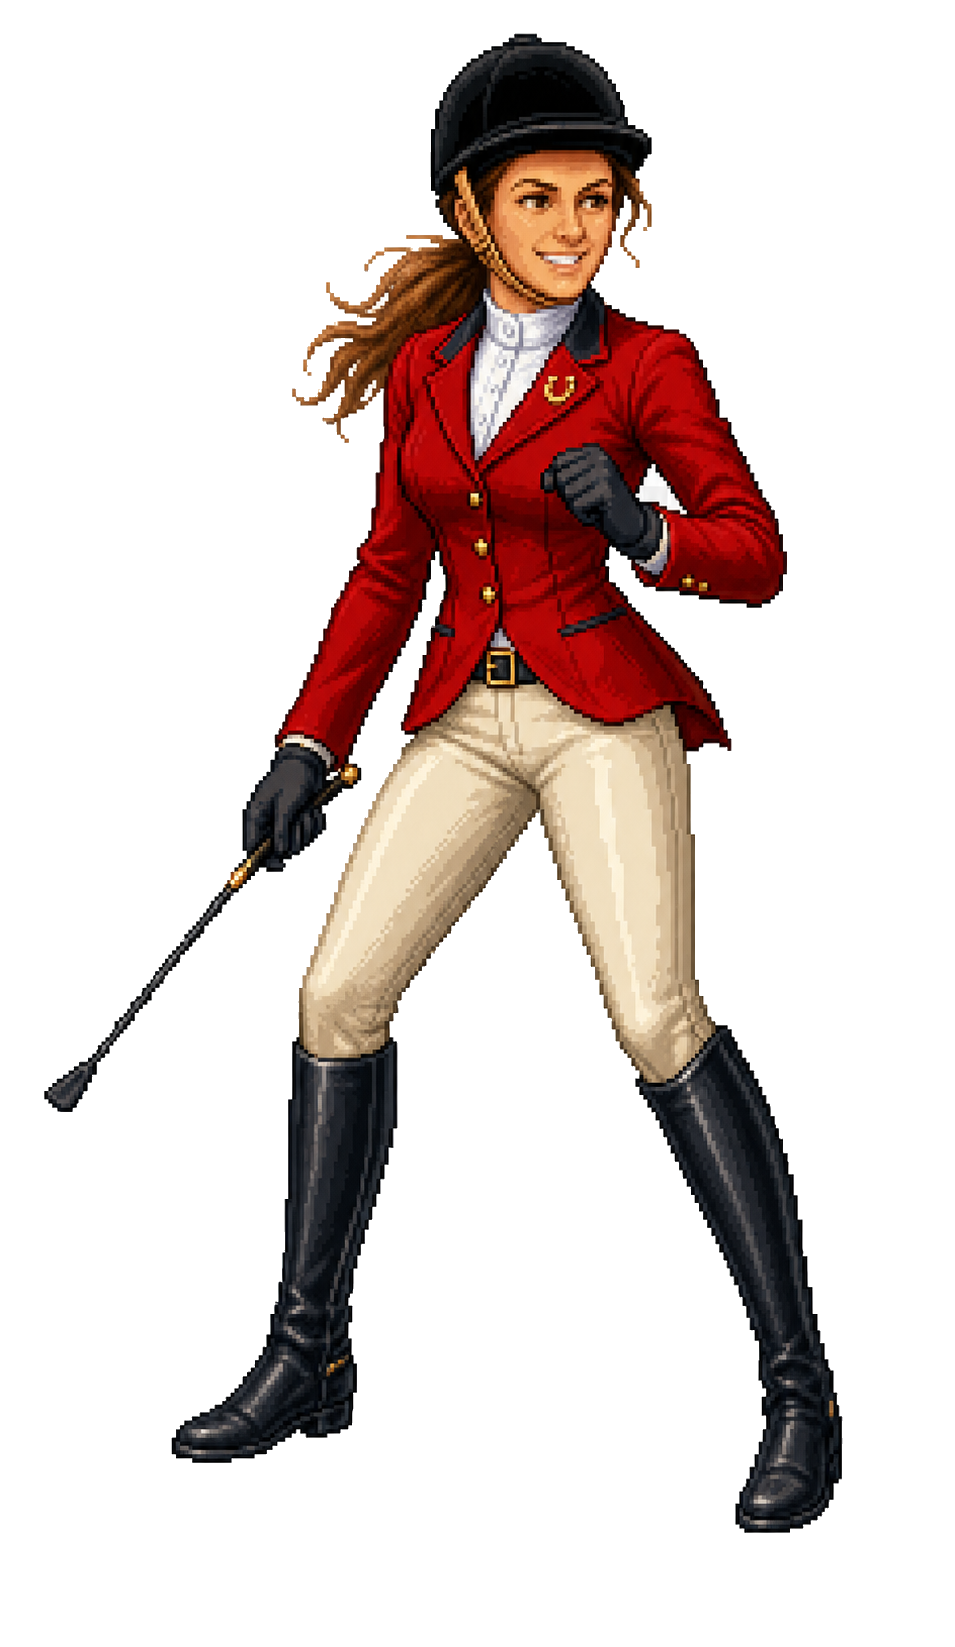
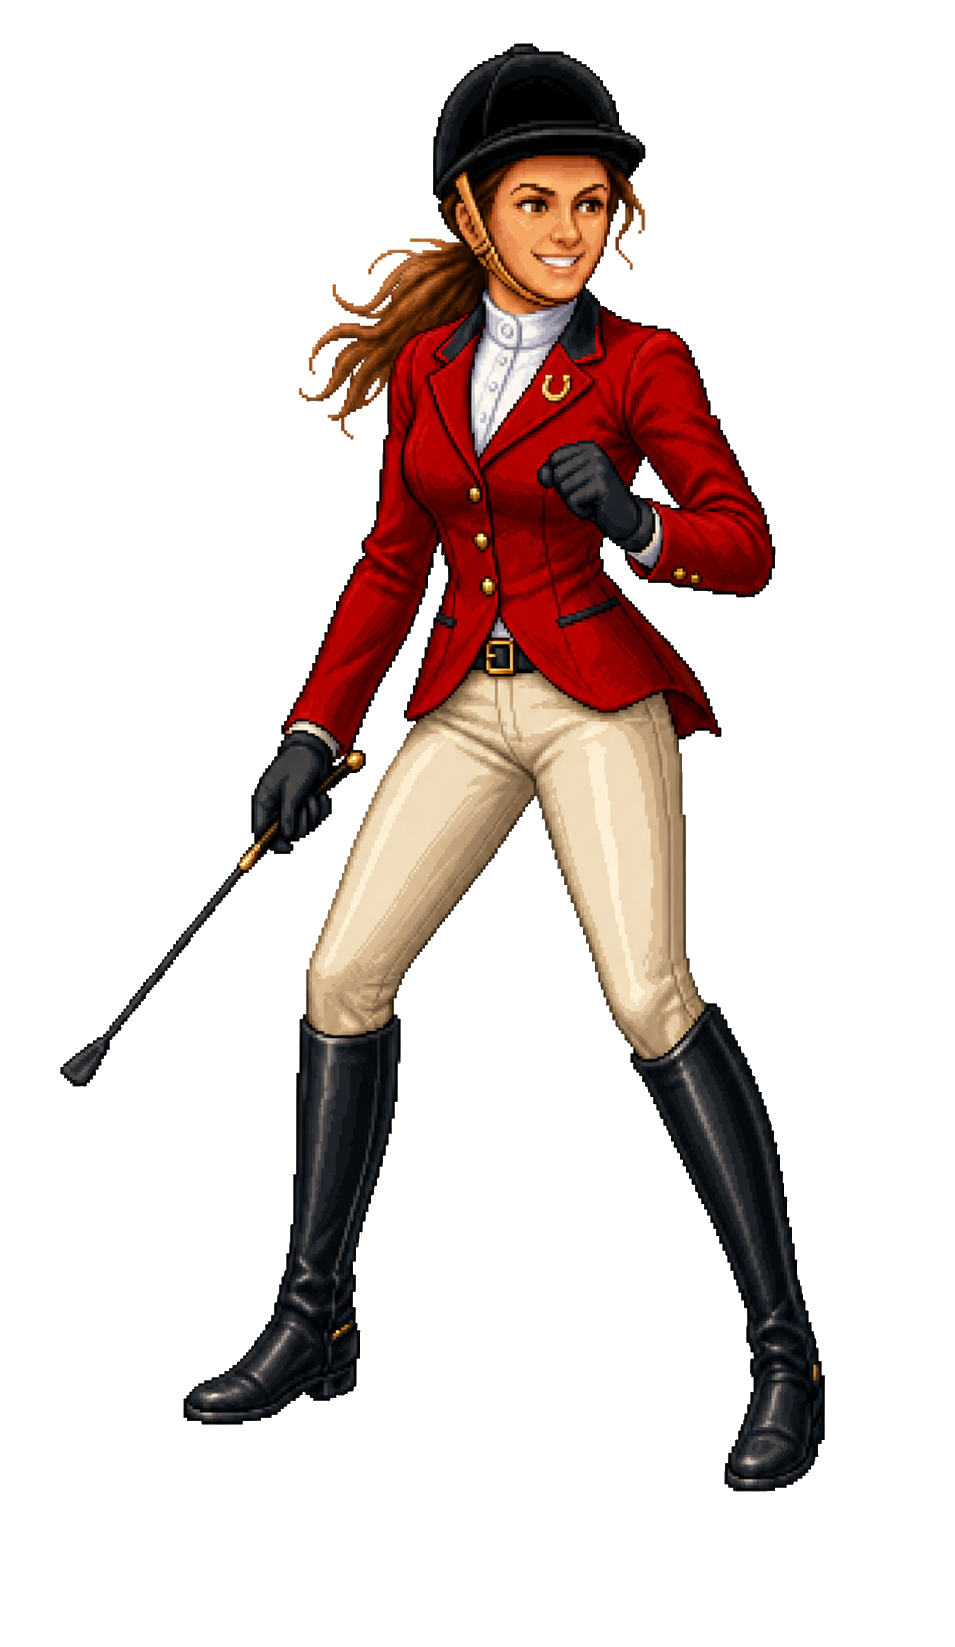
Corrige le détourage de Yannick et Charlotte

Changed region(s): [[0.1822, 0.0, 0.8806, 0.929], [0.0304, 0.5574, 0.2126, 0.6812]]

diff --git a/game.js b/game.js
@@ -4,7 +4,7 @@ const icons={
   green:`<svg class="med-icon" viewBox="0 0 48 48" aria-label="Bistouri"><path d="M7 41l3 2 19-21-3-4z"/><path d="M26 18L39 2v5c-1 6-5 12-10 15z" fill="white"/><path d="M10 39l17-19"/></svg>`,
   blue:`<svg class="med-icon" viewBox="0 0 48 48" aria-label="Seringue"><path d="M14 29l15-15 7 7-15 15z"/><path d="M33 18L44 7M10 25l5 5M20 35l5 5M17 33L9 41M5 37l8 8"/><path d="M19 29l4 4M22 26l4 4M25 23l4 4"/></svg>`
 };
-const CHARACTERS=[['Pascal','pascal-pirate.png'],['Mathieu','mathieu-luchador.png'],['Pierre','pierre-halloween.png'],['Adela','adela-egyptienne.png'],['JB','jb-cosmonaute.png?v=20260819-2'],['Romain','romain-poulet.png'],['Natacha','natacha-princesse.png'],['Fanny','fanny-exploratrice.png'],['Félix','felix-cyborg.png'],['Youri','youri-paladin.png?v=20260819-2'],['Quentin','quentin-dictateur.png'],['Nicolas','nicolas-vigilante.png'],['Yannick','yannick-cardinal.png'],['Cecilia','cecilia-infirmiere.png'],['Thibault','thibault-aventurier.png'],['Polo','polo-dandy.png'],['Édouard','edouard-aviateur.png'],['Justin','justin-judoka.png'],['Charlotte','charlotte-cavaliere.png'],["Catoire d’Arabie",'catoire-arabie.png'],['Rémy','remy-shaolin.png'],['Olivier','olivier-policier.png?v=20260819-2'],['Raphaël','raphael-scaphandrier.png?v=20260819-2'],['Éric','eric-druide.png'],['Cyril','cyril-alchimiste.png'],['Rémi','remi-berserker.png'],['Thomas','thomas-capitaine-sous-marin.png'],['Benjamin','benjamin-sherif.png'],['Edwin','edwin-zadiste.png'],['Alexandre','alexandre-hercule-satan.png'],['Erwan','erwan-bucheron.png']];
+const CHARACTERS=[['Pascal','pascal-pirate.png'],['Mathieu','mathieu-luchador.png'],['Pierre','pierre-halloween.png'],['Adela','adela-egyptienne.png'],['JB','jb-cosmonaute.png?v=20260819-2'],['Romain','romain-poulet.png'],['Natacha','natacha-princesse.png'],['Fanny','fanny-exploratrice.png'],['Félix','felix-cyborg.png'],['Youri','youri-paladin.png?v=20260819-2'],['Quentin','quentin-dictateur.png'],['Nicolas','nicolas-vigilante.png'],['Yannick','yannick-cardinal.png?v=20260819-2'],['Cecilia','cecilia-infirmiere.png'],['Thibault','thibault-aventurier.png'],['Polo','polo-dandy.png'],['Édouard','edouard-aviateur.png'],['Justin','justin-judoka.png'],['Charlotte','charlotte-cavaliere.png?v=20260819-2'],["Catoire d’Arabie",'catoire-arabie.png'],['Rémy','remy-shaolin.png'],['Olivier','olivier-policier.png?v=20260819-2'],['Raphaël','raphael-scaphandrier.png?v=20260819-2'],['Éric','eric-druide.png'],['Cyril','cyril-alchimiste.png'],['Rémi','remi-berserker.png'],['Thomas','thomas-capitaine-sous-marin.png'],['Benjamin','benjamin-sherif.png'],['Edwin','edwin-zadiste.png'],['Alexandre','alexandre-hercule-satan.png'],['Erwan','erwan-bucheron.png']];
 const $=id=>document.getElementById(id);let socket,state,session=JSON.parse(localStorage.getItem('duel-session')||'null'),lastChatCount=0,reconnectTimer=null,connectionNumber=0;
 const invitedCode=new URLSearchParams(location.search).get('join')?.trim().toUpperCase().replace(/[^A-Z2-9]/g,'').slice(0,5)||'';
 // Un joueur qui actualise son lien d'invitation doit conserver son identité.
@@ -42,7 +42,7 @@ function showGallery(){
 }
 function returnHome(){localStorage.removeItem('duel-session');session=null;state=null;const url=new URL(location.href);url.search='';url.hash='';location.href=url.toString()}
 function render(){$('lobby').classList.toggle('hidden',!!state);$('waitingRoom').classList.toggle('hidden',!state||state.status!=='lobby');$('game').classList.toggle('hidden',!state||state.status==='lobby');$('chatPanel').classList.toggle('hidden',!state);$('leaveButton').classList.toggle('hidden',!state);$('spectatorModeNotice').classList.toggle('hidden',!state||state.viewerRole!=='spectator'||state.status==='lobby');renderChat();if(state.status==='lobby')return renderWaiting();renderGame()}
-function renderWaiting(){$('copyCode').textContent=state.code;$('whatsappInviteLink').href=`https://wa.me/?text=${encodeURIComponent(invitationText())}`;const spectators=state.spectators.map(s=>`<div class="waiting-player spectator"><span class="spectator-icon">👁</span><span><b>${esc(s.name)}</b><small>ORGANISATEUR / SPECTATEUR${s.id===state.hostId?' · HÔTE':''}</small></span><i class="${s.connected?'online':''}"></i></div>`).join('');$('waitingPlayers').innerHTML=spectators+state.players.map(p=>`<div class="waiting-player"><img src="assets/characters/${characterFile(p.character)}" alt=""><span><b>${esc(p.name)}</b><small>${esc(p.character)}${p.id===state.hostId?' · HÔTE':''}</small></span><i class="${p.connected?'online':''}"></i></div>`).join('');const host=state.viewerId===state.hostId;$('onlineStartButton').classList.toggle('hidden',!host);$('waitingHint').textContent=host?(state.players.length<2?'En attente d’au moins deux joueurs actifs…':`${state.players.length} joueurs prêts. Vous pouvez lancer la partie.`):"L’hôte lancera la partie lorsque tout le monde sera prêt."}
+function renderWaiting(){$('copyCode').textContent=state.code;const spectators=state.spectators.map(s=>`<div class="waiting-player spectator"><span class="spectator-icon">👁</span><span><b>${esc(s.name)}</b><small>ORGANISATEUR / SPECTATEUR${s.id===state.hostId?' · HÔTE':''}</small></span><i class="${s.connected?'online':''}"></i></div>`).join('');$('waitingPlayers').innerHTML=spectators+state.players.map(p=>`<div class="waiting-player"><img src="assets/characters/${characterFile(p.character)}" alt=""><span><b>${esc(p.name)}</b><small>${esc(p.character)}${p.id===state.hostId?' · HÔTE':''}</small></span><i class="${p.connected?'online':''}"></i></div>`).join('');const host=state.viewerId===state.hostId;$('onlineStartButton').classList.toggle('hidden',!host);$('waitingHint').textContent=host?(state.players.length<2?'En attente d’au moins deux joueurs actifs…':`${state.players.length} joueurs prêts. Vous pouvez lancer la partie.`):"L’hôte lancera la partie lorsque tout le monde sera prêt."}
 function renderChat(){if(!state)return;const box=$('chatMessages'),atBottom=box.scrollHeight-box.scrollTop-box.clientHeight<40;box.innerHTML=state.chat.map(m=>`<div class="chat-message ${m.role==='spectator'?'spectator':''}"><b>${esc(m.sender)}</b><span>${esc(m.text)}</span></div>`).join('')||'<p class="chat-empty">Le chat est ouvert. Soyez le premier à parler.</p>';if(atBottom)box.scrollTop=box.scrollHeight;if(state.chat.length>lastChatCount&&$('chatPanel').classList.contains('collapsed'))$('chatBadge').textContent=String(state.chat.length-lastChatCount);lastChatCount=state.chat.length}
 function legalIds(){const me=state.players.find(p=>p.id===state.viewerId);if(!me||state.phase!=='play'||state.players[state.turn]?.id!==state.viewerId)return new Set();if(!state.leadColor)return new Set(me.dice.map(d=>d.id));const matching=me.dice.filter(d=>d.color===state.leadColor);return new Set((matching.length?[...matching,...me.dice.filter(d=>special(d.color))]:me.dice).map(d=>d.id))}
 function renderGame(){const legal=legalIds();$('roundValue').textContent=`${state.round} / ${state.totalRounds}`;$('trickValue').textContent=`${state.trick} / ${state.round}`;$('leadColor').textContent=state.leadColor?COLORS[state.leadColor].toUpperCase():'—';$('phaseValue').textContent={bids:'PARIS',play:'LANCER',result:'RÉSULTAT',over:'TERMINÉ'}[state.phase]||state.phase;$('game').dataset.phase=state.phase;$('playersGrid').dataset.count=state.players.length;
@@ -64,7 +64,7 @@ function init(){
   const options=CHARACTERS.map(([name],i)=>`<option value="${i}">${name}</option>`).join('');$('characterSelect').innerHTML=options;
   if(invitedCode){$('roomCodeInput').value=invitedCode;$('invitedRoomCode').textContent=invitedCode;$('inviteNotice').classList.remove('hidden');$('joinButton').textContent='REJOINDRE LA PARTIE';$('lobby').classList.add('invited-lobby')}
   $('createButton').onclick=createRoom;$('organizerButton').onclick=createOrganizer;$('joinButton').onclick=joinRoom;$('joinSpectatorButton').onclick=joinSpectatorRoom;$('roomCodeInput').oninput=e=>e.target.value=e.target.value.toUpperCase().replace(/[^A-Z2-9]/g,'');$('roomCodeInput').onkeydown=e=>{if(e.key==='Enter')joinRoom()};
-  $('onlineStartButton').onclick=()=>send('start');$('nextButton').onclick=()=>send('next');$('resetButton').onclick=()=>send('reset');$('newRoomButton').onclick=()=>send('newRoom');$('leaveButton').onclick=()=>{if(confirm('Quitter cette partie et revenir à l’accueil ?'))send('leave')};$('cancelWaitingButton').onclick=()=>send('leave');$('shareInviteButton').onclick=shareInvitation;$('copyInviteButton').onclick=copyInvitation;$('copyCode').onclick=async()=>{await navigator.clipboard.writeText(state.code);$('copyCode').textContent='COPIÉ !';setTimeout(()=>$('copyCode').textContent=state.code,1000)};
+  $('onlineStartButton').onclick=()=>send('start');$('nextButton').onclick=()=>send('next');$('resetButton').onclick=()=>send('reset');$('newRoomButton').onclick=()=>send('newRoom');$('leaveButton').onclick=()=>{if(confirm('Quitter cette partie et revenir à l’accueil ?'))send('leave')};$('cancelWaitingButton').onclick=()=>send('leave');$('shareInviteButton').onclick=shareInvitation;$('directInviteButton').onclick=()=>{location.href=`https://wa.me/?text=${encodeURIComponent(invitationText())}`};$('copyInviteButton').onclick=copyInvitation;$('copyCode').onclick=async()=>{await navigator.clipboard.writeText(state.code);$('copyCode').textContent='COPIÉ !';setTimeout(()=>$('copyCode').textContent=state.code,1000)};
   $('chatHeader').onclick=()=>{$('chatPanel').classList.toggle('collapsed');$('chatBadge').textContent=''};
   $('chatForm').onsubmit=e=>{e.preventDefault();const text=$('chatInput').value.trim();if(text){send('chat',{text});$('chatInput').value=''}};
   $('rulesButton').onclick=()=>$('rulesDialog').showModal();$('closeRules').onclick=()=>$('rulesDialog').close();$('legend').innerHTML=['brown','green','blue'].map(c=>`<div class="legend-item">${dieHTML({color:c,face:'symbol'})}<span>${COLORS[c]}</span></div>`).join('');connect()

diff --git a/multiplayer.css b/multiplayer.css
@@ -3,8 +3,8 @@
 .spectator-join-button{padding:13px;border:1px solid #80cbb9;background:#0d302dcc;color:#c9fff2;box-shadow:0 3px 0 #061816;font-size:10px}.spectator-join-button:hover{background:#1b5149;box-shadow:0 3px 0 #061816,0 0 16px #69e3c344}.spectator-mode-notice{margin-bottom:10px;padding:10px 16px;border:1px solid #75d8c3;background:#123b37;color:#d7fff5;text-align:center;font-size:10px;font-weight:900;letter-spacing:.12em;box-shadow:0 0 16px #54ddbd33}
 .invite-notice{display:grid;gap:5px;padding:14px;border:1px solid #efd276;border-radius:8px;background:#173e35;color:#fff7d8;text-align:center;box-shadow:0 0 22px #f1c75c25}.invite-notice>span{color:#efc866;font-size:8px;font-weight:900;letter-spacing:.18em}.invite-notice strong{font:700 17px/1.25 Georgia,serif}.invite-notice strong b{color:#ffd96e;letter-spacing:.12em}.invite-notice small{color:#bad9d1;font-size:11px}.invited-lobby #roundsLabel,.invited-lobby #createButton,.invited-lobby #organizerButton,.invited-lobby .lobby-choice>span{display:none}.invited-lobby .join-row input{display:none}.invited-lobby .join-row{display:block}.invited-lobby #joinButton{width:100%;padding:17px;border-color:#ffe08c;background:#df663e;color:white;box-shadow:0 5px 0 #6f291d;font-size:12px}
 .connection-status{margin:0;text-align:center;color:#b9dcd2;font-size:12px}.connection-status.error{color:#ff9b7f}.waiting-room{color:#fff;background:linear-gradient(120deg,#071a1def,#112d28ef),url("assets/environments/jungle-temple-arena.png") center/cover}.waiting-room h2{color:#ffe09a}.room-code{padding:8px 14px;border:1px solid #ffe09a;background:#071a1d;color:#ffe09a;font:900 32px/1 monospace;letter-spacing:.16em}.waiting-players{display:grid;gap:8px;margin-bottom:18px}.waiting-player{display:grid;grid-template-columns:48px 1fr 12px;align-items:center;gap:12px;padding:8px;border-bottom:1px solid #ffffff26}.waiting-player img{width:48px;height:58px;object-fit:contain}.waiting-player span{display:grid}.waiting-player small{color:#b5d7cd;font-size:8px}.waiting-player i{width:10px;height:10px;border-radius:50%;background:#7d4038}.waiting-player i.online{background:#7cff9d;box-shadow:0 0 10px #7cff9d}
-.invite-actions{display:grid;grid-template-columns:1fr 1fr;gap:9px;margin-top:18px}.share-invite{grid-column:1/-1;width:100%;padding:16px!important;font-size:12px!important}.whatsapp-invite,.copy-invite{display:grid;place-items:center;min-height:43px;padding:9px;border:1px solid #8bd8a2;border-radius:4px;background:#174f38;color:#eaffef;font-size:9px;font-weight:900;letter-spacing:.05em;text-align:center;text-decoration:none}.copy-invite{border-color:#d6bd77;background:#1b302c;color:#ffe8a5}.code-fallback{margin:14px 0 0!important;color:#a8c7bf!important;font-size:11px}.code-fallback .room-code{margin-left:6px;padding:5px 9px;font-size:18px}
-@media(max-width:620px){.invite-actions{grid-template-columns:1fr}.share-invite{grid-column:auto}.whatsapp-invite,.copy-invite{min-height:48px}.waiting-room{padding:24px 16px!important}.code-fallback{display:flex;align-items:center;justify-content:center}}
+.invite-actions{display:grid;grid-template-columns:1fr 1fr;gap:9px;margin-top:18px}.share-invite{grid-column:1/-1;width:100%;padding:16px!important;font-size:12px!important}.direct-invite,.copy-invite{display:grid;place-items:center;min-height:43px;padding:9px;border:1px solid #8bd8a2;border-radius:4px;background:#174f38;color:#eaffef;font-size:9px;font-weight:900;letter-spacing:.05em;text-align:center;text-decoration:none}.direct-invite{box-shadow:inset 0 0 14px #6aff9a18}.direct-invite:hover{background:#216c4d}.copy-invite{border-color:#d6bd77;background:#1b302c;color:#ffe8a5}.code-fallback{margin:14px 0 0!important;color:#a8c7bf!important;font-size:11px}.code-fallback .room-code{margin-left:6px;padding:5px 9px;font-size:18px}
+@media(max-width:620px){.invite-actions{grid-template-columns:1fr}.share-invite{grid-column:auto}.direct-invite,.copy-invite{min-height:50px;font-size:10px}.direct-invite{order:-1;background:#176b42;border-color:#74e09a}.waiting-room{padding:24px 16px!important}.code-fallback{display:flex;align-items:center;justify-content:center}}
 .arena.multiplayer-arena{display:grid!important;grid-template-columns:minmax(290px,390px) 1fr!important;gap:18px!important;padding-top:34px!important;min-height:760px!important}.multiplayer-arena>.table{grid-column:1;grid-row:1;position:sticky;top:12px;align-self:start;margin-top:0!important;min-height:520px}.players-grid{grid-column:2;grid-row:1;display:grid;grid-template-columns:repeat(2,minmax(220px,1fr));gap:18px;align-content:start}.arena .players-grid article.player-card{position:relative!important;align-self:stretch!important;min-height:330px!important;margin-top:210px!important;padding:16px!important}.players-grid .avatar-zone{top:-215px!important;width:190px!important;height:235px!important}.players-grid .player-card.is-me{border-color:#7fffe2}.players-grid .player-card.is-me:after{content:"VOUS";position:absolute;right:10px;bottom:8px;color:#34685d;font-size:8px;letter-spacing:.15em}.players-grid .dice-rack{min-height:76px}.players-grid .die{width:52px;height:52px}.players-grid .turn-indicator{top:-50px}.disconnected{color:#a84c3d!important;font-size:8px}
 @media(max-width:950px){.arena.multiplayer-arena{grid-template-columns:1fr!important}.multiplayer-arena>.table{position:relative;grid-column:1;grid-row:1}.players-grid{grid-column:1;grid-row:2}.arena .players-grid article.player-card{margin-top:180px!important}}
 @media(max-width:620px){.topbar h1{font-size:28px}.shell{padding:10px}.panel.adventure-lobby{padding:26px 18px}.adventure-lobby h2{font-size:31px}.players-grid{grid-template-columns:1fr}.arena.multiplayer-arena{padding:18px 10px!important}.multiplayer-arena>.table{min-height:430px}.arena .players-grid article.player-card{margin-top:165px!important;min-height:250px!important}.players-grid .avatar-zone{top:-170px!important;height:190px!important;width:160px!important}.status-strip strong{font-size:12px}.die{width:50px;height:50px}.played{gap:8px}}

diff --git a/index.html b/index.html
@@ -13,7 +13,7 @@
   <link rel="manifest" href="/site.webmanifest?v=2">
   <link rel="stylesheet" href="styles.css?v=5">
   <link rel="stylesheet" href="theme.css?v=5">
-  <link rel="stylesheet" href="multiplayer.css?v=8">
+  <link rel="stylesheet" href="multiplayer.css?v=9">
 </head>
 <body>
   <div id="connectionBanner" class="connection-banner hidden">RECONNEXION AU SERVEUR…</div>
@@ -73,7 +73,7 @@
         <p>Invitez vos amis en un geste. Le lien ouvre directement cette salle.</p>
         <div class="invite-actions">
           <button id="shareInviteButton" class="share-invite primary">PARTAGER L’INVITATION</button>
-          <a id="whatsappInviteLink" class="whatsapp-invite" href="#" target="_blank" rel="noopener">ENVOYER SUR WHATSAPP</a>
+          <button id="directInviteButton" class="direct-invite" type="button">INVITER VIA WHATSAPP</button>
           <button id="copyInviteButton" class="copy-invite">COPIER LE LIEN</button>
         </div>
         <p class="code-fallback">Ou partagez simplement le code : <button id="copyCode" class="room-code" title="Copier le code">—</button></p>
@@ -149,6 +149,6 @@
     <p class="gallery-intro">Découvrez tous les personnages disponibles avant de choisir votre champion.</p>
     <div id="galleryGrid" class="gallery-grid"></div>
   </dialog>
-  <script src="game.js?v=12"></script>
+  <script src="game.js?v=13"></script>
 </body>
 </html>
